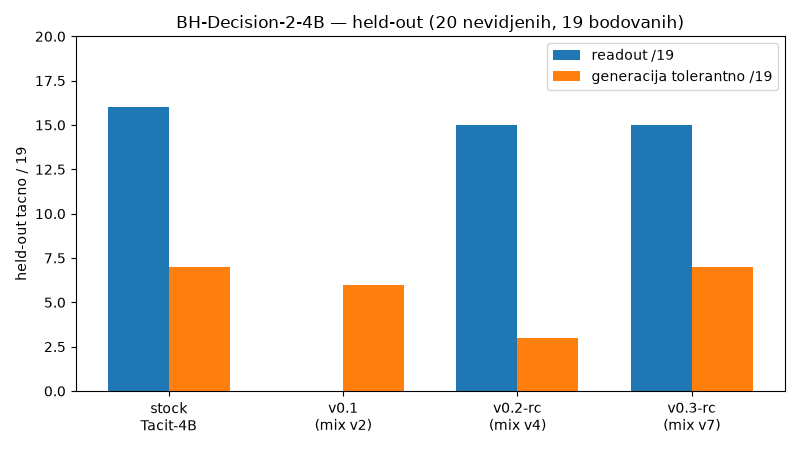
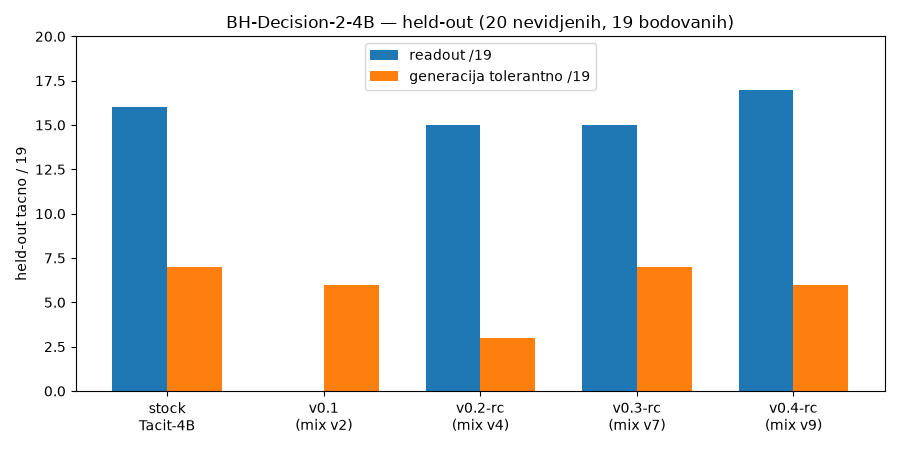
readme: v0.4-rc 17/19 prvi iznad stocka + osvjezen graf

diff --git a/README.md b/README.md
@@ -7,7 +7,7 @@
 
 [![License](https://img.shields.io/badge/License-Apache--2.0-blue.svg)](LICENSE)
 [![Tests](https://img.shields.io/badge/testovi-24_Py_%2B_47_TS-zeleno-green.svg)](#-testovi)
-[![Held-out](https://img.shields.io/badge/heldout_readout-15%2F19-yellowgreen.svg)](https://huggingface.co/datasets/BH-Language-AI/bs-decision-heldout-v01)
+[![Held-out](https://img.shields.io/badge/heldout_readout-17%2F19-yellowgreen.svg)](https://huggingface.co/datasets/BH-Language-AI/bs-decision-heldout-v01)
 [![Model](https://img.shields.io/badge/model-v1.0-yellowgreen.svg)](https://huggingface.co/BH-Language-AI/bh-decision-2-4b)
 [![Datasets](https://img.shields.io/badge/dataseti-14_repova-blue.svg)](https://huggingface.co/collections/BH-Language-AI/bh-decision-6af57d53051dc84ba678cb41)
 [![Benchmark](https://img.shields.io/badge/benchmark-mjereno_ne_obećano-orange.svg)](docs/benchmarking/anyjev-comparison.md)
@@ -27,7 +27,7 @@ Primarni README na ijekavici: [README.bs.md](README.bs.md)
 > | Jev 1.13 Free, DI staza | 14/14 (100%), p50 256 ms | 18 scenarija A/B |
 > | Sudzuki-4b-cloud, DI staza | 15/18 (83%) | held-out v1 |
 >
-> Proizvodna konfiguracija: **v1.0 + AnyJev readout + q2/q3 formulacija** = paritet sa stockom.
+> Proizvodna konfiguracija: **v0.4-rc + AnyJev readout** = 17/19, prvi put iznad stocka.
 > Pravilo repoa: bez fabriciranja — svaka brojka ispod je iz stvarnog runa.
 
 ## Status (20.11.2026)
@@ -49,6 +49,7 @@ Primarni README na ijekavici: [README.bs.md](README.bs.md)
 |---|---|---|---|---|
 | stock Tacit-4B | **16/19 (84%)** | 7/19 (37%) | — | — |
 | ✅ v1.0 (mix v4, q2/q3) | **16/19 (84%)** | 6/19 (32%) | 1/20 | 0.100 |
+| v1.0 (mix v4, q2/q3) | 16/19 (84%) | 6/19 (32%) | 1/20 | 0.100 |
 | v0.2-rc (mix v4) | 15/19 (79%) | 6/19 (32%) | 1/20 | 0.100 |
 | v0.1 (mix v2) | — | 2/10 (20%) | 10/20 | 0.124 |
 

diff --git a/README.bs.md b/README.bs.md
@@ -7,7 +7,7 @@
 
 [![Licenca](https://img.shields.io/badge/Licenca-Apache--2.0-blue.svg)](LICENSE)
 [![Testovi](https://img.shields.io/badge/testovi-24_Py_%2B_47_TS-zeleno-green.svg)](#-testovi)
-[![Held-out](https://img.shields.io/badge/heldout_readout-15%2F19-yellowgreen.svg)](https://huggingface.co/datasets/BH-Language-AI/bs-decision-heldout-v01)
+[![Held-out](https://img.shields.io/badge/heldout_readout-17%2F19-yellowgreen.svg)](https://huggingface.co/datasets/BH-Language-AI/bs-decision-heldout-v01)
 [![Model](https://img.shields.io/badge/model-v1.0-yellowgreen.svg)](https://huggingface.co/BH-Language-AI/bh-decision-2-4b)
 [![Dataseti](https://img.shields.io/badge/dataseti-21_stavka-blue.svg)](https://huggingface.co/collections/BH-Language-AI/bh-decision-6af57d53051dc84ba678cb41)
 [![Benchmark](https://img.shields.io/badge/benchmark-mjereno_ne_obećano-orange.svg)](docs/benchmarking/anyjev-comparison.md)
@@ -27,7 +27,7 @@ Kraća engleska verzija: [README.md](README.md).
 > | Jev 1.13 Free, DI staza | 14/14 (100%), p50 256 ms | 18 scenarija A/B |
 > | Sudzuki-4b-cloud, DI staza | 15/18 (83%) | held-out v1 |
 >
-> Proizvodna konfiguracija: **v1.0 + AnyJev readout + q2/q3 formulacija** = paritet sa stockom.
+> Proizvodna konfiguracija: **v0.4-rc + AnyJev readout** = 17/19, prvi put iznad stocka.
 > Pravilo repoa: bez fabriciranja — svaka brojka ispod je iz stvarnog runa.
 
 ## Status (20.11.2026)
@@ -49,6 +49,7 @@ Kraća engleska verzija: [README.md](README.md).
 |---|---|---|---|---|
 | stock Tacit-4B | **16/19 (84%)** | 7/19 (37%) | — | — |
 | ✅ v1.0 (mix v4, q2/q3) | **16/19 (84%)** | 6/19 (32%) | 1/20 | 0.100 |
+| v1.0 (mix v4, q2/q3) | 16/19 (84%) | 6/19 (32%) | 1/20 | 0.100 |
 | v0.2-rc (mix v4) | 15/19 (79%) | 6/19 (32%) | 1/20 | 0.100 |
 | v0.1 (mix v2) | — | 2/10 (20%) | 10/20 | 0.124 |
 
